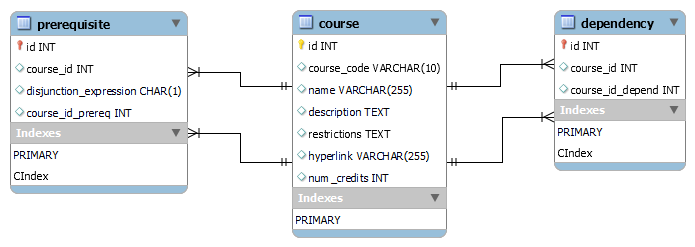
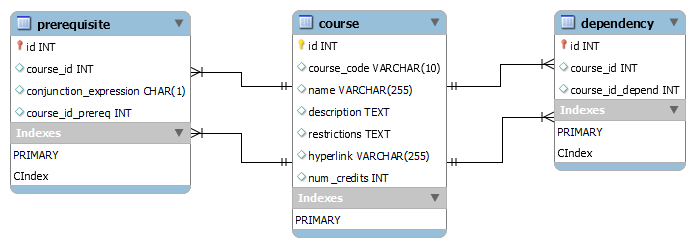
alter normal form (disjunctive to conjunctive)

diff --git a/database/database_documentation.md b/database/database_documentation.md
@@ -71,7 +71,7 @@ Primary key: id
 
 The course_id column references a course. The same course often appears in multiple rows to define logical expressions.
 
-Because of the multi-form nature of prerequisites as seen in the definition, one of two general forms could be maintained: conjunctive normal form or disjunctive normal form. While not followed strictly or mathematically, the latter was selected; prerequisites of a course are seperated on the foundational level using disjunctions. This is done using the disjunction_expression field. In particular, for a given course, the disjunction_expression represents a variable or a logical expression that is part of the larger disjunction. Thus, different disjunction_expression's represent different variables or logical expressions in the disjunction. Multiple rows with the same disjunction_expression indicate conjunction. Accordingly, the logical expressions representing the prerequisites for a given course are a set of disjunctive conjunctions. This holds by the definition of disjunctive normal form, as potential inner disjunctions can be equivalently factored outward using axiomatic associativity.
+Because of the multi-form nature of prerequisites as seen in the definition, one of two general forms could be maintained: conjunctive normal form or disjunctive normal form. While not followed strictly or mathematically, due to the nature of prerequisites on the course website, the former was selected; prerequisites of a course are seperated on the foundational level using conjunctions. This is done using the conjunction_expression field. In particular, for a given course, the conjunction_expression represents a variable or a logical expression that is part of the larger conjunction. Thus, different conjunction_expression's represent different variables or logical expressions in the conjunction. Multiple rows with the same conjunction_expression indicate conjunction. Accordingly, the logical expressions representing the prerequisites for a given course are a set of conjunctive disjunctions. This holds by the definition of conjunctive normal form, as potential inner conjunctions can be equivalently factored outward using axiomatic associativity.
 
 The course_id_prereq field stands for a corresponding prerequisite course from the course table.
 
@@ -87,18 +87,19 @@ Examples:
 - Numbers represents a course
 - Example one: 23 AND 41
 - Example two: 93 OR 20
-- Example three: (103 AND 31) OR (11 AND 66)
+- Example three: (103 OR 31) AND (12 OR 11 OR 66)
 
-| id : INT , AUTO_INCREMENT | course_id : INT | disjunction_expression : CHAR(1) | course_id_prereq : INT |
+| id : INT , AUTO_INCREMENT | course_id : INT | conjunction_expression : CHAR(1) | course_id_prereq : INT |
 | ------------------------- | --------------- | -------------------------------- | ---------------------- |
 | 1                         | 3               | a                                | 23                     |
-| 2                         | 3               | a                                | 41                     |
+| 2                         | 3               | b                                | 41                     |
 | 3                         | 17              | a                                | 93                     |
-| 4                         | 17              | b                                | 20                     |
+| 4                         | 17              | a                                | 20                     |
 | 5                         | 5               | a                                | 103                    |
 | 6                         | 5               | a                                | 31                     |
-| 7                         | 5               | b                                | 11                     |
-| 8                         | 5               | b                                | 66                     |
+| 7                         | 5               | b                                | 12                     |
+| 8                         | 5               | b                                | 11                     |
+| 9                         | 5               | b                                | 66                     |
 
 ![EER for prerequisite table](prerequisite_table.png)
 
